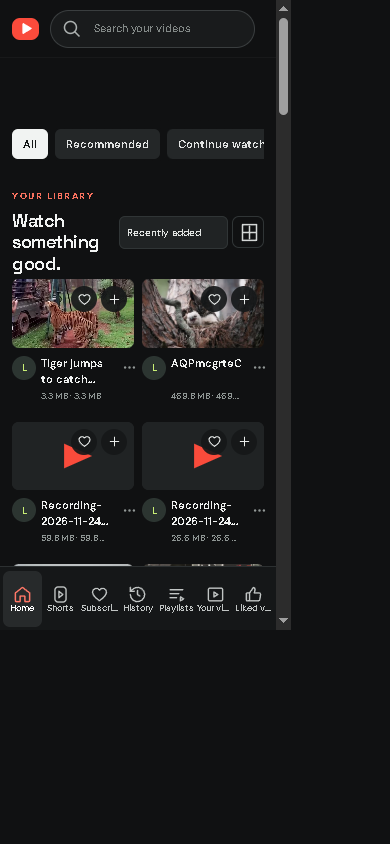
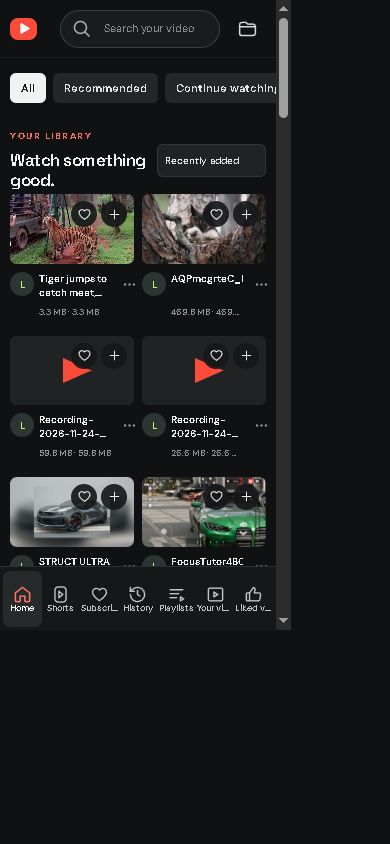
Consolidate desktop and mobile responsive layouts

diff --git a/css/responsive.css b/css/responsive.css
@@ -7,5 +7,12 @@
 @media(max-width:650px){html,body{max-width:100%;overflow-x:hidden}.topbar{height:58px}.brand-area{flex:none}.search-wrap{min-width:0}.sidebar{position:fixed;inset:auto 0 0;width:100%;height:64px;padding:4px 3px calc(4px + env(safe-area-inset-bottom));border-top:1px solid var(--line);border-right:0;z-index:40}.primary-nav{width:100%;height:100%;display:grid;grid-template-columns:repeat(7,minmax(0,1fr));justify-content:stretch;gap:0}.nav-item{width:100%;min-width:0;height:56px;padding:3px 1px}.nav-item span{max-width:100%;overflow:hidden;text-overflow:ellipsis;white-space:nowrap}.main-content{padding:118px 12px calc(82px + env(safe-area-inset-bottom))}.category-bar{top:58px;height:60px;z-index:19}.section-heading{width:100%}.video-grid{width:100%}.player-view{width:100%}.player-frame{width:100%}.player-sidebar{display:none}.player-layout{width:100%}}
 @media(min-width:651px) and (max-width:950px){.video-grid{grid-template-columns:repeat(2,minmax(0,1fr))}.main-content{padding-right:24px}.player-layout{grid-template-columns:1fr}}
 @media(max-width:380px){.video-grid{grid-template-columns:repeat(2,minmax(0,1fr));gap:18px 8px}.card-meta{grid-template-columns:24px minmax(0,1fr) 18px}.channel-mark{width:24px;height:24px}.card-title{font-size:11px;min-height:31px}.card-subtitle{font-size:9px}.brand{max-width:30px}.brand>span:last-child{display:none}.search-box input{font-size:11px}}
+
+/* Final responsive layout */
+@media(min-width:951px){.main-content{padding-top:68px}.category-bar{top:68px}.sidebar{left:0}}
+@media(min-width:951px) and (max-width:1250px){.video-grid{grid-template-columns:repeat(3,minmax(0,1fr))}}
+@media(min-width:651px) and (max-width:950px){.main-content{padding:68px 24px 40px 110px}.category-bar{top:68px}.video-grid{grid-template-columns:repeat(3,minmax(0,1fr))}}
+@media(max-width:650px){html,body{width:100%;max-width:100%;overflow-x:hidden}.topbar{height:58px;padding:0 10px;gap:8px}.brand-area{width:auto;min-width:42px}.brand>span:last-child{display:none}.brand{font-size:0}.brand-mark{width:27px;height:22px}.search-wrap{width:auto;min-width:0;flex:1;margin:0}.search-box{height:38px}.top-actions{margin-left:auto}.top-actions>.icon-button{display:none}.top-actions>.icon-button:last-child{display:grid;width:38px;height:38px}.sidebar{position:fixed;inset:auto 0 0;width:100%;height:64px;top:auto;padding:4px 3px calc(4px + env(safe-area-inset-bottom));border:0;border-top:1px solid var(--line);z-index:50}.primary-nav{height:56px;display:grid;grid-template-columns:repeat(7,minmax(0,1fr));gap:0}.nav-item{height:56px;width:100%;min-width:0;padding:3px 1px}.main-content{width:100%;padding:118px 12px calc(82px + env(safe-area-inset-bottom));overflow:hidden}.category-bar{position:fixed;top:58px;left:0;right:0;height:60px;padding:0 12px;z-index:19}.content-section{width:100%;min-width:0}.section-heading{width:100%;margin:10px 0 14px}.video-grid{width:100%;grid-template-columns:repeat(2,minmax(0,1fr));gap:18px 10px}.player-layout{grid-template-columns:1fr;width:100%}.player-view{width:100%;padding-top:8px}.player-sidebar{display:none}}
+@media(max-width:380px){.main-content{padding-left:10px;padding-right:10px}.category-bar{padding-inline:10px}.video-grid{gap:16px 8px}.card-meta{grid-template-columns:24px minmax(0,1fr) 18px}.card-title{font-size:10px}.card-subtitle{font-size:9px}.section-heading h1{font-size:17px}.sort-control select{min-width:96px}.heading-actions>.icon-button{display:none}}
 .video-card{animation:none!important}
 [hidden]{display:none!important}

diff --git a/index.html b/index.html
@@ -11,7 +11,7 @@
   <link rel="preconnect" href="https://fonts.gstatic.com" crossorigin>
   <link href="https://fonts.googleapis.com/css2?family=DM+Sans:wght@400;500;600;700&family=Space+Grotesk:wght@500;600;700&display=swap" rel="stylesheet">
   <link rel="stylesheet" href="css/style.css?v=2">
-  <link rel="stylesheet" href="css/responsive.css?v=4">
+  <link rel="stylesheet" href="css/responsive.css?v=5">
 </head>
 <body>
   <div class="app-shell" id="appShell">
